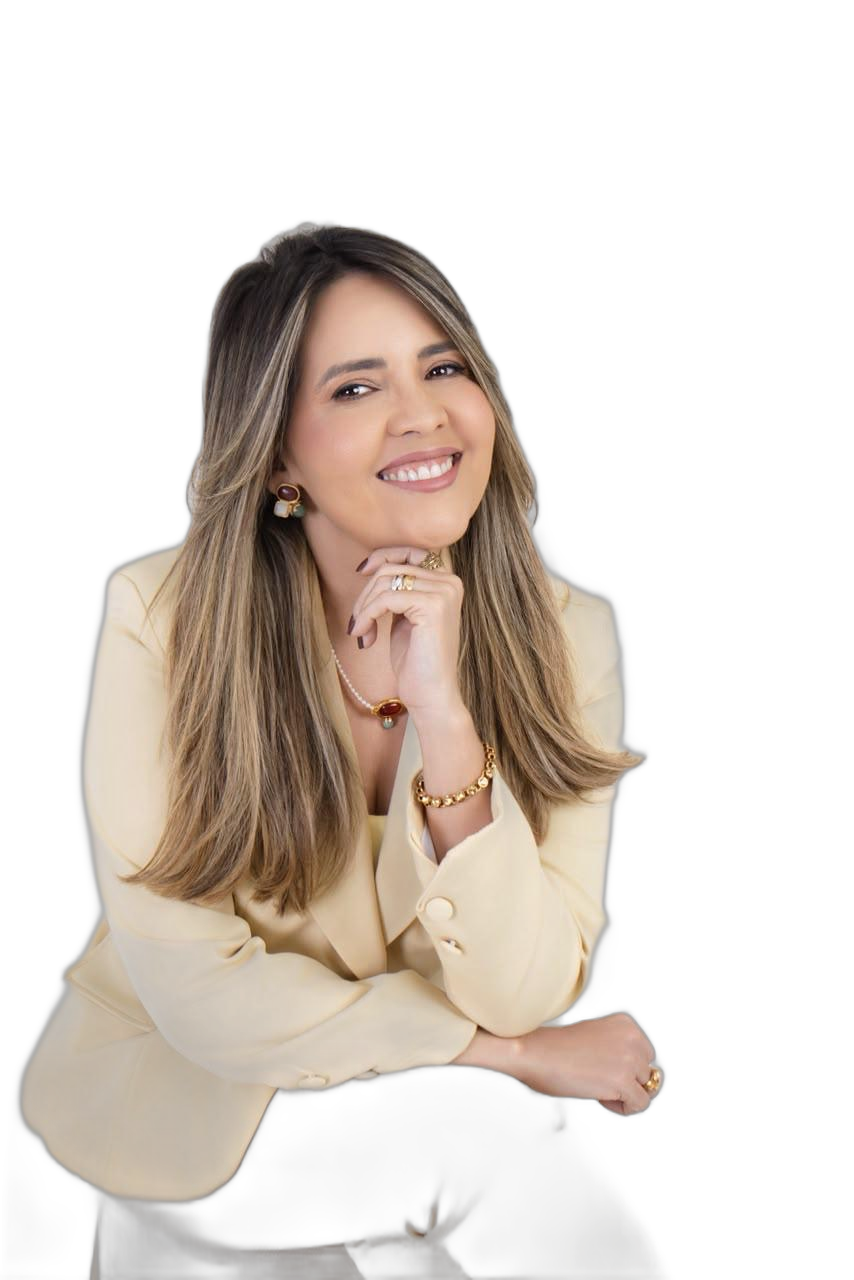
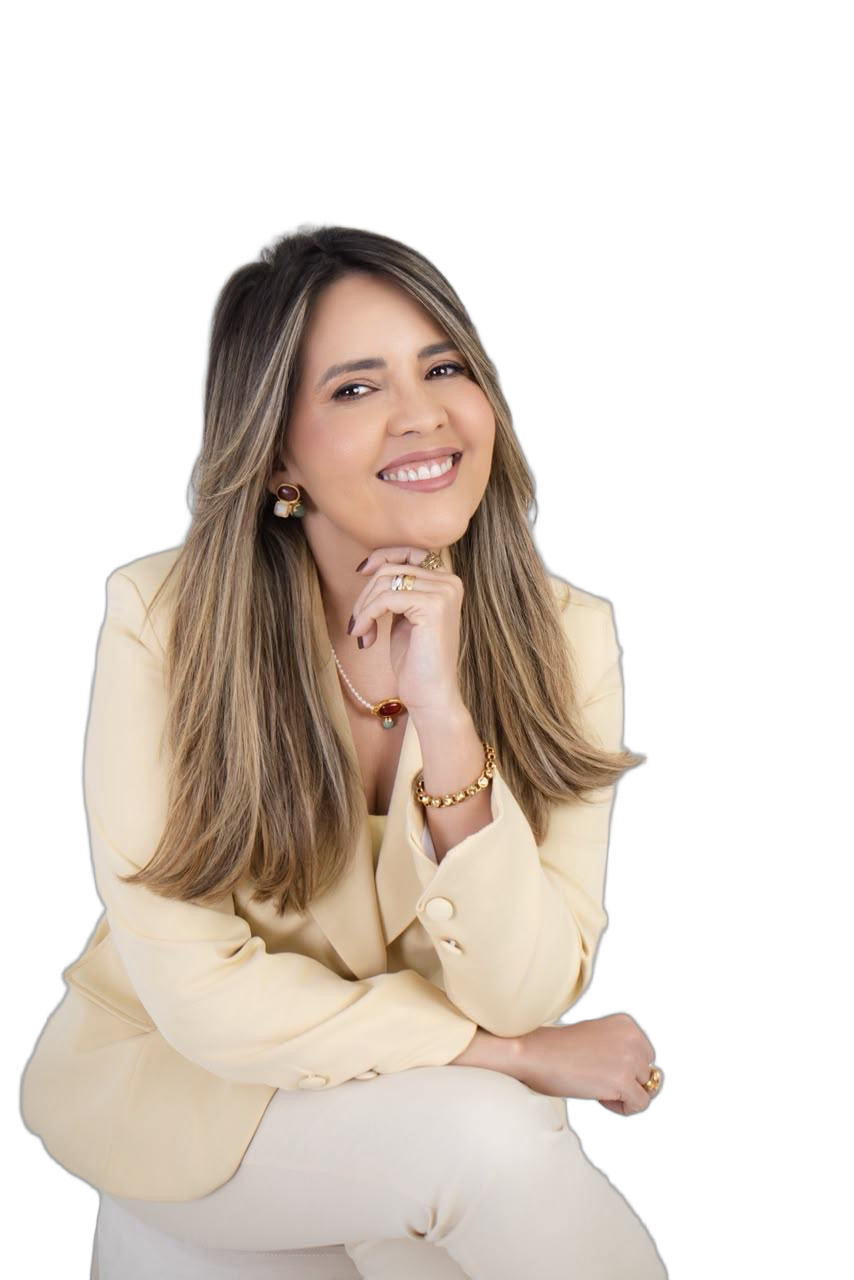
Caravana art: 4:5 layout with full-body photo (white pants) and both speakers
Claude-Session: https://claude.ai/code/session_01PeFsoJEW3VKskFdZgNUYzx

diff --git a/caravana/gerar_arte.py b/caravana/gerar_arte.py
@@ -15,7 +15,7 @@ from PIL import Image, ImageChops, ImageDraw, ImageFilter, ImageFont
 
 BASE = os.path.dirname(os.path.abspath(__file__))
 A = lambda *p: os.path.join(BASE, *p)
-W = H = 1320
+W, H = 1320, 1650
 OUT = A("caravana_love_life_2027.png")
 
 GOLD_L = (250, 228, 160)
@@ -145,52 +145,50 @@ def pinta_ouro(img, mask, brilho=1.0):
     img.alpha_composite(cam)
 
 
+def recorte(caminho, altura, fade_px, corte=None):
+    """Abre um recorte PNG, ajusta a altura e esmaece a parte de baixo."""
+    p = Image.open(A("assets", caminho)).convert("RGBA")
+    bb = p.getchannel("A").getbbox()
+    if corte:
+        bb = (bb[0], bb[1], bb[2], min(bb[3], bb[1] + corte))
+    p = p.crop(bb)
+    p = p.resize((int(p.width * altura / p.height), altura), Image.LANCZOS)
+    fade = Image.new("L", p.size, 255)
+    fd = ImageDraw.Draw(fade)
+    for i in range(fade_px):
+        y = altura - fade_px + i
+        fd.line((0, y, p.width, y), fill=int(255 * (1 - i / fade_px) ** 1.5))
+    p.putalpha(ImageChops.multiply(p.getchannel("A"), fade))
+    return p
+
+
+def cola_com_sombra(img, p, x, y):
+    sh = Image.new("RGBA", p.size, (0, 0, 0, 0))
+    sh.putalpha(p.getchannel("A").point(lambda v: v * 0.55))
+    img.alpha_composite(sh.filter(ImageFilter.GaussianBlur(14)), (x + 10, y + 10))
+    img.alpha_composite(p, (x, y))
+
+
 def main():
-    img = gradiente_v(W, H, [(0, GREEN_D), (0.25, GREEN), (0.5, GREEN_D), (1, GREEN_D)]).convert("RGBA")
-    # vinheta radial clara à direita, onde fica o título
+    gy = 1075  # topo da foto do grupo
+    img = gradiente_v(W, H, [(0, GREEN_D), (0.2, GREEN), (0.45, GREEN_D), (1, GREEN_D)]).convert("RGBA")
     luz = Image.new("RGBA", (W, H), (0, 0, 0, 0))
-    ImageDraw.Draw(luz).ellipse((450, 50, 1350, 700), fill=(70, 150, 80, 90))
+    ImageDraw.Draw(luz).ellipse((500, 0, 1400, 700), fill=(70, 150, 80, 90))
     img.alpha_composite(luz.filter(ImageFilter.GaussianBlur(120)))
     bokeh(img)
 
-    # ---------- foto de baixo (grupo), reaproveitada da referência ----------
+    # ---------- foto do grupo (reaproveitada da referência) ----------
     ref = Image.open(A("assets", "referencia.jpg")).convert("RGBA")
-    # corta antes dos ícones do Instagram que aparecem no rodapé da referência
-    grupo = ref.crop((0, 690, 1320, 1215))
-    gy = 735
-    # máscara superior ondulada
+    grupo = ref.crop((0, 690, 1320, 1215))  # corta antes dos ícones do Instagram
     gm = Image.new("L", (W, H), 0)
-    pts = [(x, gy + 25 + 30 * math.sin(2 * math.pi * x / W * 1.0 + 0.3)) for x in range(0, W + 1, 6)]
+    pts = [(x, gy + 25 + 30 * math.sin(2 * math.pi * x / W + 0.3)) for x in range(0, W + 1, 6)]
     ImageDraw.Draw(gm).polygon(pts + [(W, H), (0, H)], fill=255)
     gl = Image.new("RGBA", (W, H), (0, 0, 0, 0))
     gl.paste(grupo, (0, gy))
     gl.putalpha(ImageChops.multiply(gm, gl.getchannel("A")))
     img.alpha_composite(gl)
 
-    # ---------- palestrante (foto recortada) ----------
-    p = Image.open(A("assets", "mulher_recortada.png")).convert("RGBA")
-    bb = p.getchannel("A").getbbox()
-    p = p.crop((bb[0], bb[1], bb[2], min(bb[3], bb[1] + 900)))
-    ph = 760
-    p = p.resize((int(p.width * ph / p.height), ph), Image.LANCZOS)
-    # suaviza a parte de baixo para fundir com a faixa dourada
-    fade = Image.new("L", p.size, 255)
-    fd = ImageDraw.Draw(fade)
-    for i in range(120):
-        fd.line((0, ph - 120 + i, p.width, ph - 120 + i), fill=int(255 * (1 - i / 120)))
-    p.putalpha(ImageChops.multiply(p.getchannel("A"), fade))
-    px, py = 0, 0
-    # halo dourado suave atrás dela
-    halo = Image.new("RGBA", (W, H), (0, 0, 0, 0))
-    ImageDraw.Draw(halo).ellipse((40, 60, 520, 640), fill=(255, 210, 120, 70))
-    img.alpha_composite(halo.filter(ImageFilter.GaussianBlur(80)))
-    # sombra
-    sh = Image.new("RGBA", p.size, (0, 0, 0, 0))
-    sh.putalpha(p.getchannel("A").point(lambda v: v * 0.55))
-    img.alpha_composite(sh.filter(ImageFilter.GaussianBlur(14)), (px + 10, py + 10))
-    img.alpha_composite(p, (px, py))
-
-    # ---------- faixas douradas onduladas (entre o topo e a foto) ----------
+    # ---------- faixas douradas entre o topo e a foto ----------
     sombra = faixa_onda(gy + 10, 30, 70, 0.3)
     s = Image.new("RGBA", (W, H), (0, 0, 0, 0))
     s.putalpha(sombra.filter(ImageFilter.GaussianBlur(14)).point(lambda v: v * 0.6))
@@ -198,7 +196,28 @@ def main():
     pinta_ouro(img, faixa_onda(gy + 8, 30, 46, 0.3))
     pinta_ouro(img, faixa_onda(gy - 22, 34, 16, 0.6), 1.1)
     pinta_ouro(img, faixa_onda(gy + 46, 26, 8, 0.1), 0.9)
-    # faixas inferiores (moldura de baixo)
+
+    # ---------- Joyce Meyer (palestrante), à direita, abaixo do título ----------
+    j = recorte("joyce_recortada.png", 470, 150, corte=600)
+    jx = 1000 - j.width // 2
+    halo = Image.new("RGBA", (W, H), (0, 0, 0, 0))
+    ImageDraw.Draw(halo).ellipse((jx + 40, 650, jx + j.width - 40, 1080), fill=(255, 210, 120, 60))
+    img.alpha_composite(halo.filter(ImageFilter.GaussianBlur(70)))
+    cola_com_sombra(img, j, jx, gy + 30 - j.height)
+
+    # ---------- nova mulher, corpo inteiro (com a calça branca), à esquerda ----------
+    m = recorte("mulher_recortada.png", 1200, 120)
+    mx, my = 10, 55
+    # brilho dourado no contorno, para destacá-la sobre a foto do grupo
+    glow = Image.new("RGBA", m.size, (255, 215, 130, 0))
+    glow.putalpha(m.getchannel("A").filter(ImageFilter.MaxFilter(9)).filter(ImageFilter.GaussianBlur(10)).point(lambda v: v * 0.8))
+    img.alpha_composite(glow, (mx, my))
+    halo = Image.new("RGBA", (W, H), (0, 0, 0, 0))
+    ImageDraw.Draw(halo).ellipse((40, 60, 600, 900), fill=(255, 210, 120, 70))
+    img.alpha_composite(halo.filter(ImageFilter.GaussianBlur(90)))
+    cola_com_sombra(img, m, mx, my)
+
+    # ---------- faixa creme de baixo ----------
     cm = Image.new("L", (W, H), 0)
     pts = [(x, H - 75 + 20 * math.sin(2 * math.pi * x / W + 3.4)) for x in range(0, W + 1, 6)]
     ImageDraw.Draw(cm).polygon(pts + [(W, H), (0, H)], fill=255)
@@ -209,39 +228,34 @@ def main():
     pinta_ouro(img, faixa_onda(H - 78, 20, 26, 3.4))
     pinta_ouro(img, faixa_onda(H - 48, 16, 7, 3.1), 0.9)
 
-    # ---------- título ----------
-    cx = 875
-    texto_ouro(img, (cx - 20, 205), "Caravana", fonte("GreatVibes-Regular.ttf", 150))
-    av = aviao(95, rot=-55)
-    img.alpha_composite(av, (1150, 120))
-    # traço curvo sob "Caravana"
+    # ---------- título (coluna da direita) ----------
+    cx = 960
+    texto_ouro(img, (cx - 20, 125), "Caravana", fonte("GreatVibes-Regular.ttf", 140))
+    img.alpha_composite(aviao(85, rot=-55), (1205, 50))
     curva = Image.new("L", (W, H), 0)
-    ImageDraw.Draw(curva).arc((650, 160, 1180, 300), 20, 160, fill=255, width=4)
+    ImageDraw.Draw(curva).arc((720, 85, 1220, 215), 20, 160, fill=255, width=4)
     pinta_ouro(img, curva.filter(ImageFilter.GaussianBlur(0.6)))
 
-    texto_branco(img, (cx, 390), "LOVE LIFE", fonte("PlayfairDisplay.ttf", 124, 800))
-    f_conf = fonte("PlayfairDisplay.ttf", 86, 500)
-    f_ano = fonte("PlayfairDisplay.ttf", 94, 800)
+    texto_branco(img, (cx, 295), "LOVE LIFE", fonte("PlayfairDisplay.ttf", 112, 800))
+    f_conf = fonte("PlayfairDisplay.ttf", 76, 500)
+    f_ano = fonte("PlayfairDisplay.ttf", 84, 800)
     w_conf = f_conf.getlength("Conference ")
     w_ano = f_ano.getlength("2027")
     x0 = cx - (w_conf + w_ano) / 2
-    texto_branco(img, (x0, 525), "Conference ", f_conf, anchor="ls")
-    texto_ouro(img, (x0 + w_conf, 525), "2027", f_ano, anchor="ls")
+    texto_branco(img, (x0, 415), "Conference ", f_conf, anchor="ls")
+    texto_ouro(img, (x0 + w_conf, 415), "2027", f_ano, anchor="ls")
 
-    # divisória com coração
-    d = ImageDraw.Draw(img)
-    ly = 575
+    ly = 460
     linha = Image.new("L", (W, H), 0)
-    ImageDraw.Draw(linha).line((cx - 330, ly, cx - 40, ly), fill=255, width=3)
-    ImageDraw.Draw(linha).line((cx + 40, ly, cx + 330, ly), fill=255, width=3)
+    ImageDraw.Draw(linha).line((cx - 290, ly, cx - 36, ly), fill=255, width=3)
+    ImageDraw.Draw(linha).line((cx + 36, ly, cx + 290, ly), fill=255, width=3)
     pinta_ouro(img, linha)
-    h = coracao(46)
-    img.alpha_composite(h, (cx - 23, ly - 22))
+    img.alpha_composite(coracao(42), (cx - 21, ly - 20))
 
     # pílula "Inscrições abertas!"
-    bx0, by0, bx1, by1 = cx - 345, 612, cx + 345, 722
+    bx0, by0, bx1, by1 = cx - 315, 495, cx + 315, 595
     pm = Image.new("L", (W, H), 0)
-    ImageDraw.Draw(pm).rounded_rectangle((bx0, by0, bx1, by1), 58, fill=255)
+    ImageDraw.Draw(pm).rounded_rectangle((bx0, by0, bx1, by1), 50, fill=255)
     s = Image.new("RGBA", (W, H), (0, 0, 0, 0))
     s.putalpha(pm.filter(ImageFilter.GaussianBlur(12)).point(lambda v: v * 0.6))
     img.alpha_composite(s, (0, 8))
@@ -249,10 +263,10 @@ def main():
     pil.paste(gradiente_v(bx1 - bx0, by1 - by0, [(0, (255, 244, 205)), (0.5, (240, 210, 140)), (1, (200, 150, 70))]), (bx0, by0))
     pil.putalpha(pm)
     img.alpha_composite(pil)
-    ImageDraw.Draw(img).rounded_rectangle((bx0 + 6, by0 + 6, bx1 - 6, by1 - 6), 52,
+    ImageDraw.Draw(img).rounded_rectangle((bx0 + 6, by0 + 6, bx1 - 6, by1 - 6), 44,
                                           outline=(255, 250, 230), width=2)
     ImageDraw.Draw(img).text((cx, (by0 + by1) / 2 + 2), "Inscrições abertas!",
-                             font=fonte("PlayfairDisplay-Italic.ttf", 68, 800),
+                             font=fonte("PlayfairDisplay-Italic.ttf", 60, 800),
                              fill=(16, 56, 32), anchor="mm")
 
     img.convert("RGB").save(OUT, quality=95)
